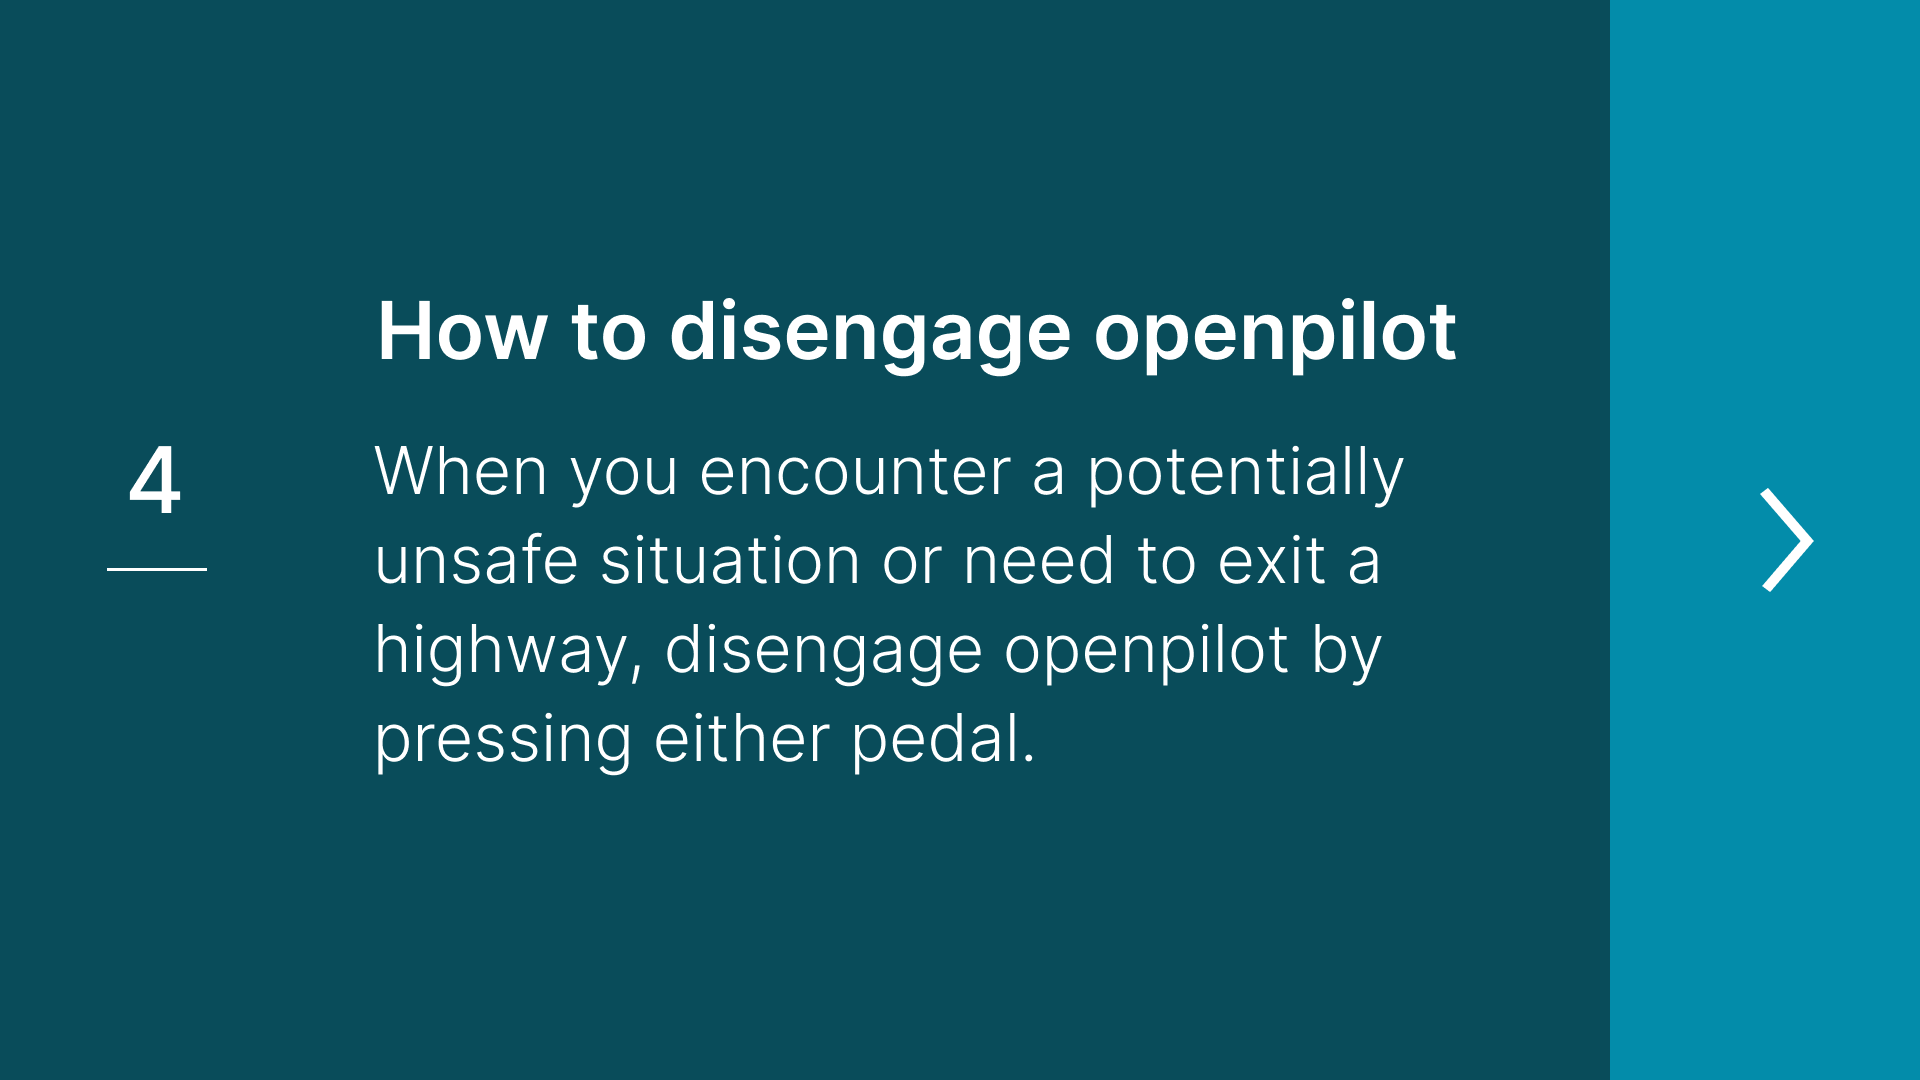
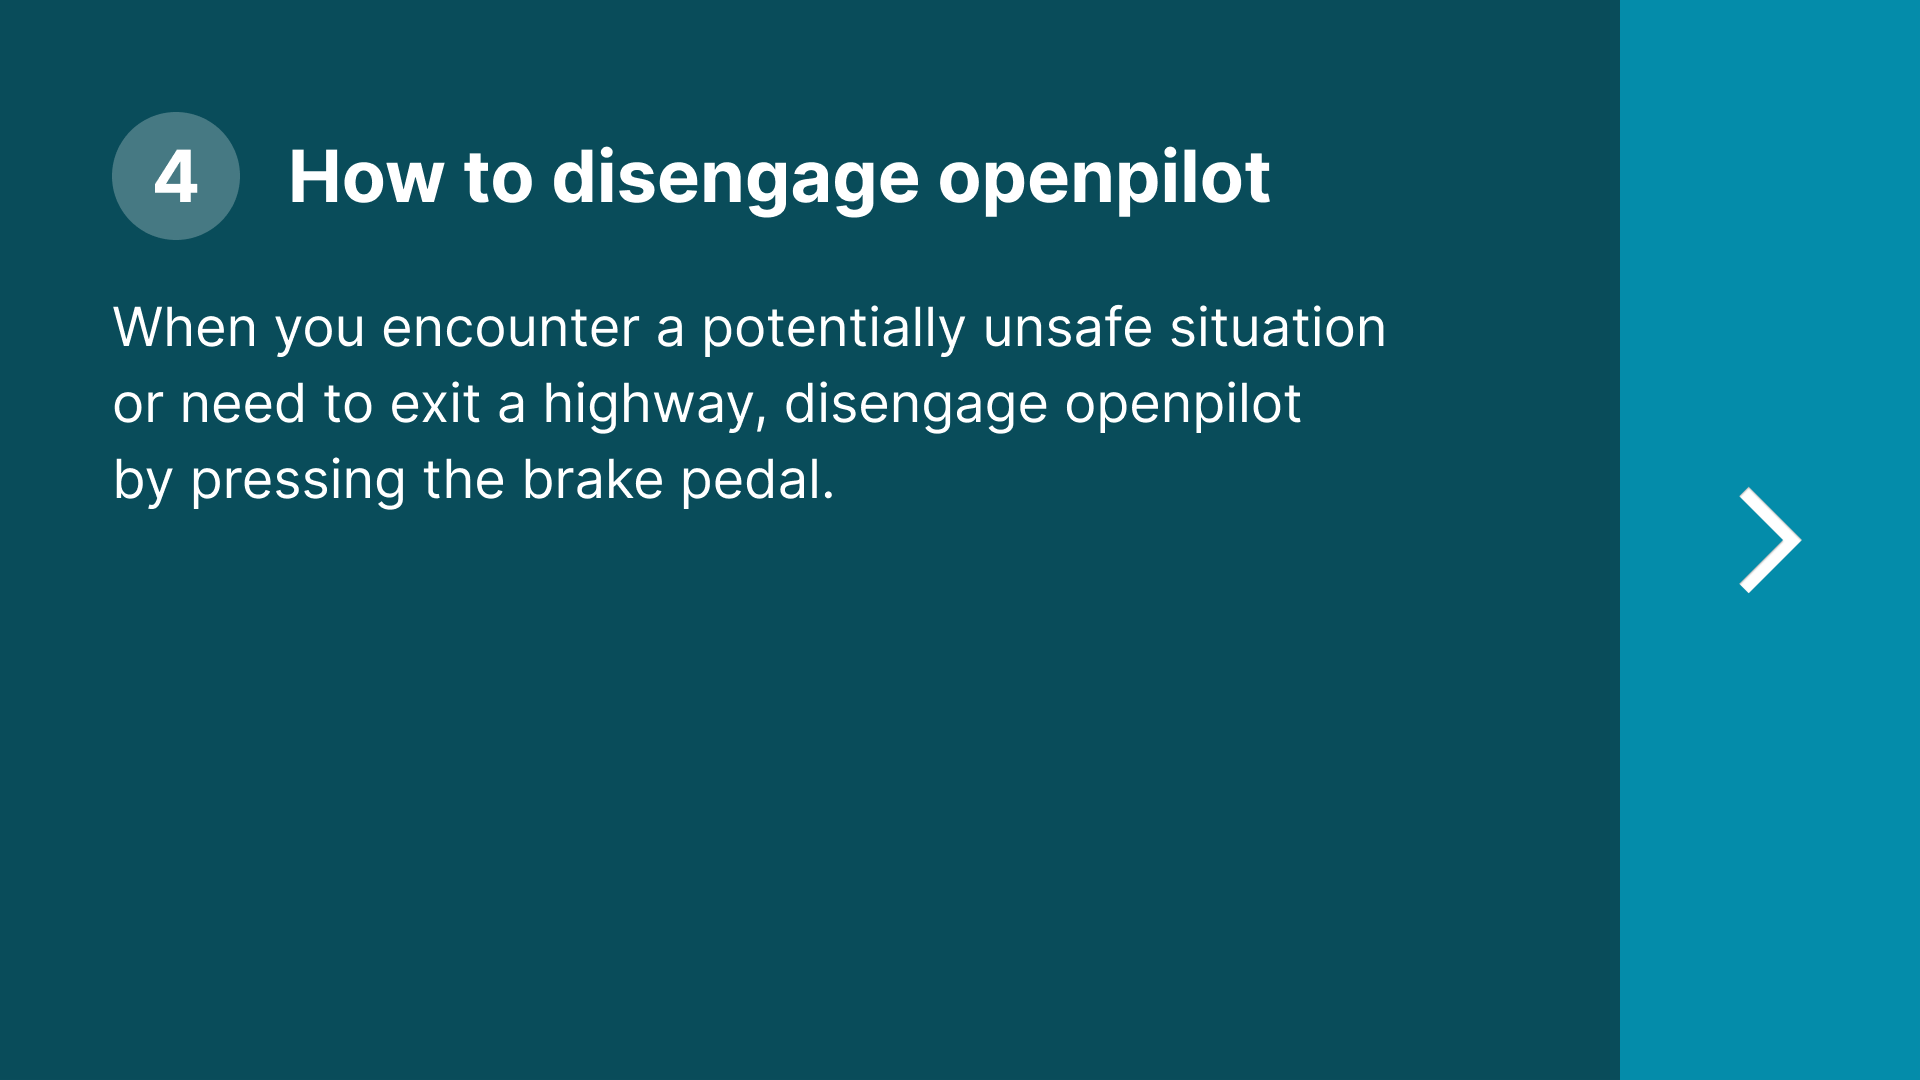
Training guide updates (#24033)
* add new images

* update boxes

* copy updates and fix checkmark spacing

* update wide images and boxes

* tune path and smaller triangle

* tune bounding boxes

* clean up

* same triangle as c3

* revert panda

* optimize images

* Revert "revert panda"

This reverts commit f66aac85a01135d68d0c51ad4c383b7cd23ef86f.

* add comment

* add new step18

* final fixes

* pixel perfect
old-commit-hash: 405ecbced38e27e1b5ce14b30042b6ccb9acf254
old-commit-hash: f58f5f59917df62dba8c8576ce38755f55fcc3b0

diff --git a/selfdrive/ui/qt/offroad/onboarding.h b/selfdrive/ui/qt/offroad/onboarding.h
@@ -25,52 +25,52 @@ private:
   int currentIndex = 0;
 
   // Bounding boxes for each training guide step
-  const QRect continueBtnStandard = {1610, 0, 310, 1080};
+  const QRect continueBtnStandard = {1620, 0, 300, 1080};
   QVector<QRect> boundingRectStandard {
-    QRect(650, 710, 720, 190),
+    QRect(112, 804, 619, 166),
     continueBtnStandard,
     continueBtnStandard,
-    QRect(1442, 565, 230, 310),
-    QRect(1515, 562, 133, 60),
+    QRect(1476, 565, 253, 308),
+    QRect(1501, 529, 184, 108),
     continueBtnStandard,
-    QRect(1580, 630, 215, 130),
-    QRect(1210, 0, 485, 590),
-    QRect(1460, 400, 375, 210),
-    QRect(166, 842, 1019, 148),
-    QRect(1460, 210, 300, 310),
+    QRect(1613, 665, 178, 153),
+    QRect(1220, 0, 420, 730),
+    QRect(1335, 499, 440, 147),
+    QRect(112, 820, 996, 148),
+    QRect(1412, 199, 316, 333),
     continueBtnStandard,
-    QRect(1375, 80, 545, 1000),
+    QRect(1237, 63, 683, 1017),
     continueBtnStandard,
-    QRect(1610, 130, 280, 800),
-    QRect(1385, 485, 400, 270),
+    QRect(1455, 110, 313, 860),
+    QRect(1253, 519, 383, 228),
     continueBtnStandard,
     continueBtnStandard,
-    QRect(1036, 769, 718, 189),
-    QRect(201, 769, 718, 189),
+    QRect(630, 804, 626, 164),
+    QRect(108, 804, 426, 164),
   };
 
-  const QRect continueBtnWide = {1850, 0, 310, 1080};
+  const QRect continueBtnWide = {1840, 0, 320, 1080};
   QVector<QRect> boundingRectWide {
-    QRect(654, 721, 718, 189),
+    QRect(112, 804, 618, 164),
     continueBtnWide,
     continueBtnWide,
-    QRect(1690, 570, 165, 300),
-    QRect(1690, 560, 133, 60),
+    QRect(1641, 558, 210, 313),
+    QRect(1662, 528, 184, 108),
     continueBtnWide,
-    QRect(1820, 630, 180, 155),
-    QRect(1360, 0, 460, 620),
-    QRect(1570, 400, 375, 215),
-    QRect(167, 842, 1018, 148),
-    QRect(1610, 210, 295, 310),
+    QRect(1814, 621, 211, 170),
+    QRect(1350, 0, 497, 755),
+    QRect(1553, 516, 406, 112),
+    QRect(112, 804, 1126, 164),
+    QRect(1598, 199, 316, 333),
     continueBtnWide,
-    QRect(1555, 90, 610, 990),
+    QRect(1364, 90, 796, 990),
     continueBtnWide,
-    QRect(1600, 140, 280, 790),
-    QRect(1385, 490, 750, 270),
+    QRect(1593, 114, 318, 853),
+    QRect(1379, 511, 391, 243),
     continueBtnWide,
     continueBtnWide,
-    QRect(1138, 755, 718, 189),
-    QRect(303, 755, 718, 189),
+    QRect(630, 804, 626, 164),
+    QRect(108, 804, 426, 164),
   };
 
   QString img_path;

diff --git a/selfdrive/ui/qt/offroad/onboarding.cc b/selfdrive/ui/qt/offroad/onboarding.cc
@@ -23,7 +23,7 @@ void TrainingGuide::mouseReleaseEvent(QMouseEvent *e) {
 
   if (boundingRect[currentIndex].contains(e->x(), e->y())) {
     if (currentIndex == 9) {
-      const QRect yes = QRect(692, 842, 492, 148);
+      const QRect yes = QRect(707, 804, 531, 164);
       Params().putBool("RecordFront", yes.contains(e->x(), e->y()));
     }
     currentIndex += 1;
